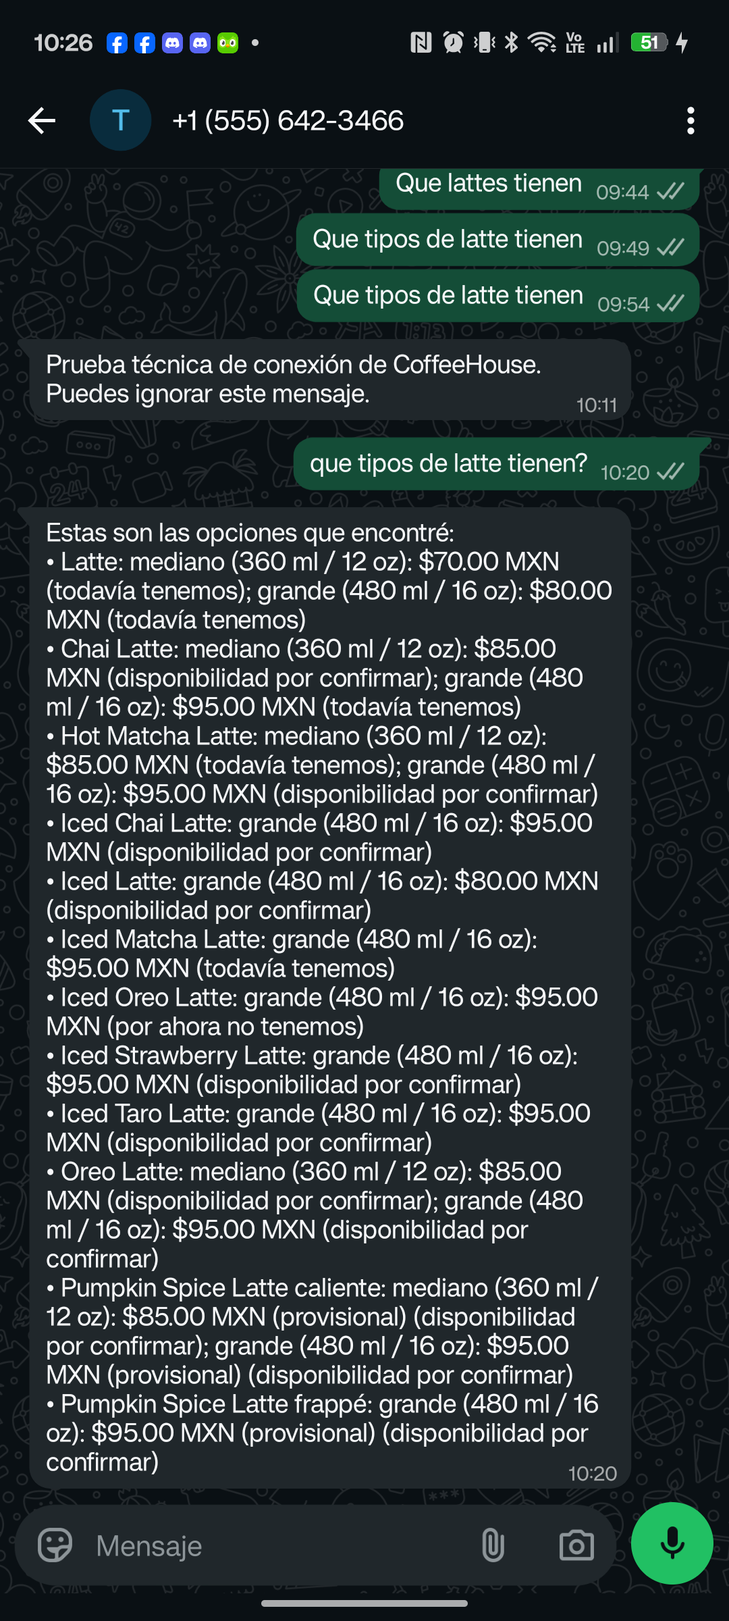
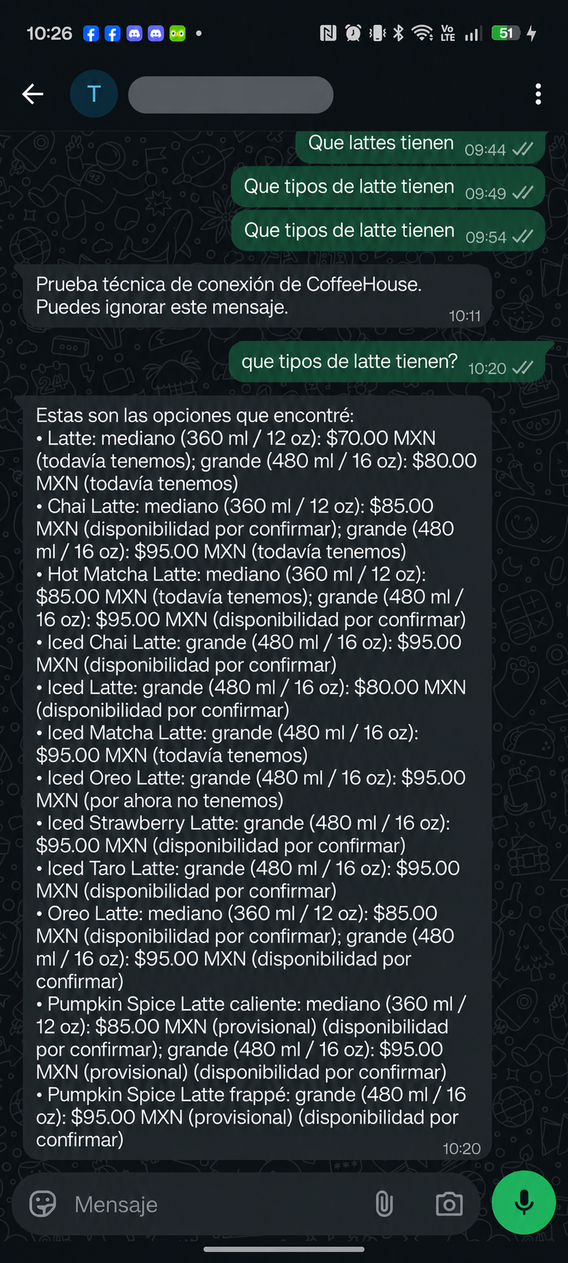
Document WhatsApp order expiry test

diff --git a/evaluation/t10/live-integration-2026-10-09.md b/evaluation/t10/live-integration-2026-10-09.md
@@ -29,7 +29,7 @@ Resultado: **5/5 casos pasaron**. La mediana fue 14.122 segundos y el rango, 5.8
 
 ## Qué falta
 
-La lista «A» de Meta ya contiene el teléfono receptor en el formato `52` + número nacional. El webhook entrega móviles mexicanos como `521` + número nacional. Una prueba directa al formato mostrado por Meta fue aceptada y luego reportó los estados `sent`, `delivered` y `read`. H2 normaliza este identificador al recibir el webhook para que la conversación, la autorización del personal y la respuesta utilicen el formato actual `+52`; el cambio ya está desplegado y el webhook público pasó el desafío HTTPS. El 9 de octubre, una consulta desde Android preguntó qué tipos de latte hay; el asistente respondió con las opciones del menú y Meta confirmó `sent`, `delivered` y `read`. La consulta tardó aproximadamente 22 segundos en procesarse. Después se envió un pedido de prueba y se recibió un borrador; falta la confirmación explícita del cliente y el ciclo de personal. No usar clientes ni datos reales.
+La lista «A» de Meta ya contiene el teléfono receptor en el formato `52` + número nacional. El webhook entrega móviles mexicanos como `521` + número nacional. Una prueba directa al formato mostrado por Meta fue aceptada y luego reportó los estados `sent`, `delivered` y `read`. H2 normaliza este identificador al recibir el webhook para que la conversación, la autorización del personal y la respuesta utilicen el formato actual `+52`; el cambio ya está desplegado y el webhook público pasó el desafío HTTPS. El 9 de octubre, una consulta desde Android preguntó qué tipos de latte hay; el asistente respondió con las opciones del menú y Meta confirmó `sent`, `delivered` y `read`. La consulta tardó aproximadamente 22 segundos en procesarse. El cliente confirmó el pedido de prueba **CH-F9B87265** por **$85 MXN**. El administrador recibió el aviso, pero no respondió dentro del plazo de 10 minutos; el pedido expiró y se notificó al cliente. No se descontó inventario. No usar clientes ni datos reales.
 
 OCR está apagado en el VPS. La prueba sintética no cubre reconocimiento de fotos ni acredita el ciclo real de mensajes entrantes y salientes. No es una validación de producción.
 
@@ -37,16 +37,20 @@ OCR está apagado en el VPS. La prueba sintética no cubre reconocimiento de fot
 
 El 9 de octubre se conectó un Android de prueba y se abrió el chat del número de prueba de Meta. La primera consulta llegó al webhook y el trabajo del asistente terminó, pero Meta rechazó la respuesta con HTTP 401; la comprobación privada devolvió error 190/subcódigo 463. El token se renovó después y las consultas Graph confirmaron el recurso telefónico y el permiso `whatsapp_business_messaging`. Dos consultas posteriores llegaron al webhook y se completaron, pero Meta rechazó las respuestas con HTTP 400/código `131030`. No se recibió respuesta del asistente, no se creó ningún pedido ni se afectó el inventario. La lista «A» ya mostraba el destinatario permitido. La revisión privada encontró una diferencia de formato: el webhook dio `521...` y la lista de Meta usa `52...`. Un envío directo de comprobación al formato de la lista fue aceptado con HTTP 200 y sus estados posteriores confirmaron `sent`, `delivered` y `read`. H2 normalizó el identificador al entrar y el cambio se desplegó. No se incluye captura porque la pantalla contiene mensajes previos y elementos ajenos a la evidencia.
 
-**Actualización posterior, 9 de octubre:** se envió desde Android la consulta «¿qué tipos de latte tienen?». El webhook la recibió, el asistente respondió con las opciones del menú y Meta confirmó que la respuesta fue enviada, entregada y leída. El pedido de demostración y su aceptación por personal siguen pendientes.
+**Actualización posterior, 9 de octubre:** se envió desde Android la consulta «¿qué tipos de latte tienen?». El webhook la recibió, el asistente respondió con las opciones del menú y Meta confirmó que la respuesta fue enviada, entregada y leída. El cliente confirmó el pedido de demostración CH-F9B87265; el personal no lo aceptó dentro del plazo, por lo que expiró. El mensaje de expiración se entregó y no hubo movimiento de inventario.
 
-## Pedido de prueba: borrador pendiente
+## Pedido de prueba: expiró sin aceptación del personal
 
-El 9 de octubre, el teléfono de prueba envió: «Quiero un latte caliente mediano con leche de avena». El agente respondió con un resumen de 1 Latte mediano, extra Leche de Avena y total de **$85.00 MXN**. La propuesta quedó en la conversación como un borrador con vencimiento; no se creó un pedido ni hubo movimientos de inventario. La consulta y la respuesta quedaron registradas como completadas, y Meta marcó la respuesta como leída.
+El 9 de octubre, el teléfono de prueba envió: «Quiero un latte caliente mediano con leche de avena». El agente respondió con un resumen de 1 Latte mediano, extra Leche de Avena y total de **$85.00 MXN**. El cliente contestó «Sí»; el sistema creó el pedido **CH-F9B87265** por $85.00 MXN y lo envió al administrador de respaldo.
 
-La base confirmó que el borrador apunta a `hot_latte`, tamaño mediano, cantidad 1 y modificador `leche_avena`; el precio base es $70 y el extra $15. Aunque el borrador identifica la variante caliente, su texto visible no repite la palabra «caliente»; esto se revisará antes de confirmar. La aceptación del cliente, el aviso al personal y el descuento tras aceptación aún no se han probado.
+La base confirmó que el pedido apunta a `hot_latte`, tamaño mediano, cantidad 1 y modificador `leche_avena`; el precio base es $70 y el extra $15. El aviso al administrador quedó leído, pero no llegó respuesta en los 10 minutos disponibles. A las 10:42, el sistema marcó el pedido y su ticket como `expired`, cerró la ronda con resultado `timed_out` y envió al cliente: «Tu pedido CH-F9B87265 no quedó confirmado y no se descontó inventario. Si quieres, puedo ayudarte con otra opción». Meta confirmó que ese aviso se entregó. No hay `accepted_at`, venta ni movimientos de inventario. El texto del resumen visible dice «Latte mediano» y no repite «caliente», aunque la variante guardada es `hot_latte`.
 
-![Captura de WhatsApp con la consulta del pedido y el borrador que espera confirmación.](evidence/whatsapp-order-draft.png)
+![Captura del borrador en WhatsApp, antes de que el cliente lo confirmara.](evidence/whatsapp-order-draft.png)
+
+![Captura de la confirmación del cliente y el aviso de expiración; el folio y los mensajes se conservaron y el contacto está oculto.](evidence/whatsapp-order-expired.png)
 
 La respuesta automática a la consulta anterior sobre el menú también quedó registrada como `read` por Meta:
 
-![Captura de la consulta sobre los lattes y la respuesta del asistente.](evidence/whatsapp-menu-query.png)
+![Captura redactada de la consulta sobre los lattes y la respuesta del asistente; el contacto está oculto.](evidence/whatsapp-menu-query.png)
+
+Para cerrar el ciclo de aceptación y existencias, hace falta iniciar un pedido de prueba nuevo y que el personal autorizado lo acepte antes de su vencimiento. Entonces se debe comprobar que se registre una sola venta y un solo movimiento de inventario.

diff --git a/deployment/README.md b/deployment/README.md
@@ -6,7 +6,7 @@ El 9 de octubre de 2026 se instaló y habilitó `coffee-house-hackathon2.service
 
 Qwen3Guard está ejecutándose en la torre Debian 13 como servicio persistente del usuario del sistema. La inferencia escucha solo en `127.0.0.1:18473`; el túnel SSH inverso lo publica únicamente en el loopback del VPS, `127.0.0.1:19091`. En el VPS se creó un usuario de túnel sin shell, con una clave dedicada, `AllowTcpForwarding remote`, `PermitListen 127.0.0.1:19091`, `GatewayPorts no` y cero sesiones. La configuración pasó `sshd -t` y la comprobación efectiva; el túnel de Hackathon 1 conserva su puerto y sus restricciones. Los archivos `*-user.service` son las plantillas correspondientes al servicio activo de la torre; las plantillas de sistema muestran una alternativa con cuentas dedicadas.
 
-La suite H2+T1 pasó **109 pruebas y omitió 2** (OCR opcional). La evaluación integrada en el VPS con Groq y la guardia real pasó **5/5 recorridos sintéticos**. Meta confirmó la suscripción de Mozart a la cuenta de WhatsApp de prueba y al campo `messages`; la callback devolvió el desafío válido y rechazó el inválido. La comprobación automatizada no envió mensajes reales ni creó pedidos. Después de desplegar la normalización de números mexicanos, una consulta real de prueba desde Android recibió respuesta automática; Meta confirmó el estado `read`. El asistente también preparó un borrador de pedido; sigue esperando confirmación explícita del cliente. Todavía falta comprobar el aviso y la aceptación del personal.
+La suite H2+T1 pasó **109 pruebas y omitió 2** (OCR opcional). La evaluación integrada en el VPS con Groq y la guardia real pasó **5/5 recorridos sintéticos**. Meta confirmó la suscripción de Mozart a la cuenta de WhatsApp de prueba y al campo `messages`; la callback devolvió el desafío válido y rechazó el inválido. La comprobación automatizada no envió mensajes reales ni creó pedidos. Después de desplegar la normalización de números mexicanos, una consulta real de prueba desde Android recibió respuesta automática; Meta confirmó el estado `read`. El cliente confirmó el pedido **CH-F9B87265** por **$85 MXN**. El administrador de respaldo recibió el aviso, pero no respondió dentro del plazo de 10 minutos. El pedido expiró, el cliente recibió aviso y no hubo venta ni movimiento de inventario. Falta repetir el recorrido para validar la aceptación del personal y el descuento único.
 
 ## Servicio Linux
 
@@ -16,14 +16,14 @@ Prepara `/etc/coffee-house-hackathon2/hackathon2.env` con permisos `600`; toma c
 
 El servicio H2 usa `QWEN_GUARD_URL=http://127.0.0.1:19091`. El túnel se inicia desde la torre hacia el VPS y permite solo el tramo `127.0.0.1:18473` a `127.0.0.1:19091`. No abras la torre en el router ni en el cortafuegos público.
 
-La cuenta de prueba de WhatsApp Business está suscrita a la app Mozart y al campo `messages`. Meta usa la callback H2 indicada arriba. Nunca apuntes la app a la página H1. El primer intento salió con un token vencido (HTTP 401, error 190/463). Después se instaló y verificó un token nuevo con permiso `whatsapp_business_messaging`. Los primeros envíos recibieron HTTP 400/código `131030`, aunque el teléfono ya aparecía en «A». El webhook entregaba el identificador mexicano histórico `521...`, mientras la lista de Meta muestra `52...`. Un envío directo al formato mostrado por Meta fue aceptado y su webhook confirmó `delivered` y `read`. El código de H2 normaliza ese identificador al recibirlo y está desplegado. La conversación automática quedó validada con una consulta sobre los lattes, cuya respuesta Meta marcó como leída. El asistente preparó un borrador de pedido por $85 MXN; no se creó una venta ni cambió el inventario. Falta confirmar el borrador y comprobar la aceptación del personal.
+La cuenta de prueba de WhatsApp Business está suscrita a la app Mozart y al campo `messages`. Meta usa la callback H2 indicada arriba. Nunca apuntes la app a la página H1. El primer intento salió con un token vencido (HTTP 401, error 190/463). Después se instaló y verificó un token nuevo con permiso `whatsapp_business_messaging`. Los primeros envíos recibieron HTTP 400/código `131030`, aunque el teléfono ya aparecía en «A». El webhook entregaba el identificador mexicano histórico `521...`, mientras la lista de Meta muestra `52...`. Un envío directo al formato mostrado por Meta fue aceptado y su webhook confirmó `delivered` y `read`. El código de H2 normaliza ese identificador al recibirlo y está desplegado. La consulta sobre los lattes recibió respuesta y el cliente confirmó el pedido **CH-F9B87265** por **$85 MXN**. El aviso al administrador de respaldo fue leído, pero no llegó respuesta antes del límite de 10 minutos. El pedido expiró y el sistema notificó al cliente; no se aceptó, no se registró una venta y no cambió el inventario.
 
 ## Estado y siguiente paso
 
 1. Confirma que el servicio H2, la guardia y el túnel están activos antes de probar; consulta el registro de despliegue.
 2. En **WhatsApp > Configuración de la API**, comprueba que el teléfono desde el que se escribe aparece como destinatario permitido en «A» para el mismo número de prueba que usa H2. No hace falta añadirlo como línea de negocio, volver a generar el token ni cambiar el webhook.
 3. La consulta sencilla y su respuesta automática ya quedaron comprobadas desde Android; Meta confirmó lectura.
-4. Revisa y confirma el borrador pendiente solo si sus artículos, extras y total son correctos. Después, comprueba el aviso y la aceptación del personal; el inventario solo debe descontarse al aceptar.
+4. El pedido de prueba **CH-F9B87265** expiró por falta de respuesta del administrador dentro de los 10 minutos. Para completar el recorrido, inicia un pedido de prueba nuevo y haz que personal autorizado lo acepte dentro del plazo; verifica que la venta y el movimiento de inventario ocurran una sola vez.
 5. El OCR está apagado en el despliegue actual; las fotos de tickets solo se evaluaron con datos sintéticos y no se deben enviar a esta demo hasta activar y comprobar esa función.
 6. Usa solo números y datos de prueba. No uses información de clientes reales.
 7. Antes de migraciones, respalda solo los datos H2. No abras, copies ni modifiques la base de Hackathon 1.

diff --git a/README.md b/README.md
@@ -18,7 +18,7 @@ Agente de WhatsApp para una cafetería: atiende consultas del menú, arma pedido
 
 Los datos de existencias, recetas, ventas, tickets y números de prueba son sintéticos. Los precios marcados como provisionales son solo para la demostración. El sistema no representa un punto de venta ni un inventario de producción.
 
-La demo está desplegada en el VPS tras una ruta HTTPS propia, distinta de Hackathon 1. La app de prueba de Meta «Mozart» está suscrita al campo `messages`; el desafío del webhook y el rechazo de un token incorrecto se comprobaron. Qwen3Guard corre en la torre y se comunica con H2 mediante un túnel SSH restringido que solo escucha en loopback. Groq y la entrega de WhatsApp están habilitados únicamente para esta configuración de prueba; OCR está apagado. El webhook recibió consultas y el asistente las procesó. Se comprobó que Meta acepta el destinatario de prueba en el formato mostrado por la interfaz (`52` seguido del número nacional, sin el `1` histórico), y la prueba directa se entregó y fue leída. Los eventos entrantes mexicanos pueden traer ese mismo celular como `wa_id` con el `1` histórico (`521`); H2 ya normaliza este identificador a `+52` antes de asociarlo con conversaciones, personal y respuestas. La consulta «¿qué tipos de latte tienen?» recibió una respuesta automática, marcada por Meta como enviada, entregada y leída. También se creó un borrador real de prueba para un Latte mediano caliente con leche de avena por $85 MXN; está pendiente la confirmación explícita del cliente y la aceptación del personal. La demo no está habilitada para atender clientes reales.
+La demo está desplegada en el VPS tras una ruta HTTPS propia, distinta de Hackathon 1. La app de prueba de Meta «Mozart» está suscrita al campo `messages`; el desafío del webhook y el rechazo de un token incorrecto se comprobaron. Qwen3Guard corre en la torre y se comunica con H2 mediante un túnel SSH restringido que solo escucha en loopback. Groq y la entrega de WhatsApp están habilitados únicamente para esta configuración de prueba; OCR está apagado. H2 normaliza los identificadores mexicanos `521...` a `+52`. La consulta de menú recibió una respuesta marcada como enviada, entregada y leída. El cliente confirmó el pedido de prueba **CH-F9B87265** por **$85 MXN**. El administrador de respaldo recibió el aviso, pero no respondió dentro de los 10 minutos: el pedido expiró, el cliente recibió aviso y no se descontó inventario. La demo no está habilitada para atender clientes reales.
 
 Hackathon 2 es independiente de la aplicación y los datos de Hackathon 1. No incluye su interfaz web, historial privado, documentos SDD, modelos descargados ni credenciales.
 
@@ -52,7 +52,7 @@ Desde la raíz del repositorio:
 
 En esta copia de Hackathon 2, la suite H2+T1 pasó **109 pruebas y omitió 2** en Python 3.13 local; las dos omitidas requieren el ejecutable OCR, cubierto en una evaluación sintética independiente. La batería conversacional integrada volvió a pasar **5/5 casos** con Groq y Qwen3Guard reales, incluida una consulta clara de latte caliente con leche de avena. Incluye una aclaración cuando el cliente omite si una bebida es caliente o fría, y verifica que la preferencia de una bebida no se aplique por error a otra dentro del mismo pedido. Las consultas y la base de esa evaluación fueron sintéticas; no hubo mensajes de WhatsApp ni llamadas de Graph API durante la batería. H2 y la guardia están activos en el VPS y la torre, y H1 siguió respondiendo HTTP 200. Los resultados de antes y después del ajuste están en `evaluation/t5/`.
 
-La primera prueba manual desde Android falló porque el token anterior ya no era válido (HTTP 401, error 190/463). Se instaló un token nuevo en el entorno privado del VPS; las consultas Graph de solo lectura confirmaron el número configurado y el permiso `whatsapp_business_messaging`. En pruebas posteriores se encontró una diferencia entre el identificador mexicano `521...` recibido por webhook y el destinatario `52...` que aparece permitido en la configuración de Meta. Un envío directo de comprobación al formato permitido fue aceptado por Graph (HTTP 200); no se volvió a añadir el número ni se cambió la cuenta WABA. Se añadió normalización del identificador entrante, cubierta por pruebas, pero falta desplegarla y completar la prueba conversacional desde Android. Tampoco se ha probado aún un pedido real por WhatsApp. El detalle está en `evaluation/t10/live-integration-2026-10-09.md`.
+La primera prueba manual desde Android falló porque el token anterior ya no era válido (HTTP 401, error 190/463). Se instaló un token nuevo en el entorno privado del VPS; las consultas Graph de solo lectura confirmaron el número configurado y el permiso `whatsapp_business_messaging`. En pruebas posteriores se encontró una diferencia entre el identificador mexicano `521...` recibido por webhook y el destinatario `52...` que aparece permitido en la configuración de Meta. Un envío directo de comprobación al formato permitido fue aceptado por Graph (HTTP 200); no se volvió a añadir el número ni se cambió la cuenta WABA. Se añadió y desplegó la normalización del identificador entrante, cubierta por pruebas. Desde Android quedó comprobada la respuesta del menú; en el pedido más reciente, el cliente confirmó y recibió folio, pero el personal no respondió en diez minutos. El pedido expiró y no afectó las existencias. El detalle está en `evaluation/t10/live-integration-2026-10-09.md`.
 
 La primera batería coloquial tuvo 20/21 por una expectativa mal etiquetada en el evaluador. La batería corregida completa pasó **22/22 intenciones claras y 5/5 ambiguas** en una sola corrida, con cero reintentos y cero fallos; incluye una frase con varias erratas. El ejecutor espera 15 segundos entre consultas para respetar la cuota observada. La explicación, las limitaciones y los resultados están en `evaluation/t9/groq-colloquial-report-2026-10-09.md`; son frases sintéticas, no una garantía de comprensión general.
 

diff --git a/docs/entrega-hackathon2.md b/docs/entrega-hackathon2.md
@@ -27,14 +27,16 @@ Las acciones de negocio no dependen de una respuesta libre del modelo. Los permi
 
 ## Evaluación
 
-La suite H2+T1 pasó **109 pruebas y omitió 2** (las omitidas requieren Tesseract). La limpieza automática, la cola, las cancelaciones y los estados se comprobaron con datos de demostración. H2 está desplegado en una ruta exclusiva del VPS; la app de prueba Mozart está suscrita al campo `messages`, y el desafío del webhook HTTPS se verificó. Qwen3Guard corre en la torre y se comunica con el VPS por un túnel SSH restringido a loopback. La evaluación integrada más reciente pasó **5/5 recorridos sintéticos** con Groq y Qwen3Guard. Se validó desde Android una consulta sobre los lattes y Meta confirmó que la respuesta fue enviada, entregada y leída. También se preparó un borrador para un Latte mediano caliente con leche de avena por **$85 MXN**. La base confirma la variante caliente; todavía no se ha confirmado el pedido, creado una venta ni descontado inventario. La aceptación del personal sigue pendiente. H2 normaliza el identificador mexicano histórico `521...` a `+52`. Los detalles y la captura de la prueba están en `evaluation/t10/live-integration-2026-10-09.md`.
+La suite H2+T1 pasó **109 pruebas y omitió 2** (las omitidas requieren Tesseract). La limpieza automática, la cola, las cancelaciones y los estados se comprobaron con datos de demostración. H2 está desplegado en una ruta exclusiva del VPS; la app de prueba Mozart está suscrita al campo `messages`, y el desafío del webhook HTTPS se verificó. Qwen3Guard corre en la torre y se comunica con el VPS por un túnel SSH restringido a loopback. La evaluación integrada más reciente pasó **5/5 recorridos sintéticos** con Groq y Qwen3Guard. Desde Android se validó la consulta del menú y el cliente confirmó el pedido **CH-F9B87265** por **$85 MXN**. El aviso al administrador de respaldo fue leído, pero no llegó aceptación antes del límite de 10 minutos. El pedido expiró; el cliente recibió aviso y no hubo venta ni descuento de inventario. H2 normaliza el identificador mexicano histórico `521...` a `+52`. Los detalles y las capturas de la prueba están en `evaluation/t10/live-integration-2026-10-09.md`.
 
-![Consulta del menú de latte respondida por el asistente en WhatsApp.](../evaluation/t10/evidence/whatsapp-menu-query.png)
+![Captura redactada de la consulta del menú de latte respondida por el asistente en WhatsApp; el contacto está oculto.](../evaluation/t10/evidence/whatsapp-menu-query.png)
 
-![Borrador del pedido de prueba en WhatsApp. No se confirmó ni se envió al personal.](../evaluation/t10/evidence/whatsapp-order-draft.png)
+![Captura redactada del resumen del pedido antes de la confirmación del cliente; el contacto está oculto.](../evaluation/t10/evidence/whatsapp-order-draft.png)
+
+![Confirmación del cliente y aviso de expiración. El pedido venció sin aceptación y no se descontó inventario. Captura con el contacto oculto.](../evaluation/t10/evidence/whatsapp-order-expired.png)
 
 ## Alcance y limitaciones
 
-Las recetas, existencias, pedidos, tickets y números incluidos son ficticios. Algunos precios se señalan como provisionales. La app y el teléfono configurados en Meta son de prueba. La suscripción de Mozart al campo `messages` y la dirección de devolución de Hackathon 2 se verificaron. Desde Android se comprobó una consulta, la respuesta automática y su lectura; el teléfono de prueba está autorizado. Se generó un borrador de pedido; su confirmación y el aviso y aceptación del personal siguen pendientes. En la demo actual el texto externo y la entrega por WhatsApp están habilitados solo con la configuración de prueba; el OCR está apagado y los datos son ficticios. La prueba automatizada no acredita operación de producción.
+Las recetas, existencias, pedidos, tickets y números incluidos son ficticios. Algunos precios se señalan como provisionales. La app y el teléfono configurados en Meta son de prueba. La suscripción de Mozart al campo `messages` y la dirección de devolución de Hackathon 2 se verificaron. Desde Android se comprobó una consulta, la respuesta automática y su lectura; el teléfono de prueba está autorizado. En una prueba posterior, el cliente confirmó un pedido de demostración y el administrador de respaldo recibió el aviso, pero no respondió en 10 minutos. El pedido expiró, el cliente fue notificado y no se registró una venta ni se descontaron existencias. El ciclo de aceptación del personal y el descuento aún deben probarse. En la demo actual el texto externo y la entrega por WhatsApp están habilitados solo con la configuración de prueba; el OCR está apagado y los datos son ficticios. La prueba automatizada no acredita operación de producción.
 
 El resultado es un prototipo académico funcional a nivel de código y pruebas locales, diseñado para la demostración del Hackathon 2. No es un sistema de venta listo para atender clientes reales.

diff --git a/evaluation/t9/whatsapp-smoke-test.md b/evaluation/t9/whatsapp-smoke-test.md
@@ -38,4 +38,4 @@ Este guion permite cerrar la validación externa después de renovar y verificar
 
 El 9 de octubre de 2026, la primera consulta desde Android llegó al webhook y fue procesada, pero el envío salió con HTTP 401; una lectura privada devolvió error Graph API 190/463. Ese token se renovó y el nuevo pasó las consultas Graph de solo lectura con permiso `whatsapp_business_messaging`. Las consultas siguientes volvieron a llegar al webhook y a completarse; la bandeja de salida registró `meta_http_400_graph_131030`. La interfaz de Meta ya mostraba el teléfono receptor en «A». La revisión privada mostró que el webhook entregó el identificador mexicano con formato `521...`, mientras la interfaz usa el número actual `52...` sin el `1` histórico. Un envío directo de comprobación al formato de «A» fue aceptado y sus estados posteriores confirmaron entrega y lectura. H2 ya normaliza el identificador mexicano entrante a `+52`; el cambio está desplegado y la batería cubre este comportamiento. La consulta-respuesta real desde Android quedó validada; todavía no se ha probado un pedido ni cambiado inventario.
 
-El destinatario de prueba ya estaba autorizado y la consulta sencilla recibió una respuesta automática, confirmada por Meta como leída. También se generó el borrador de un Latte mediano caliente con leche de avena por $85 MXN. No se confirmó, no se creó una venta y no hubo movimientos de inventario. Falta confirmar el resumen y completar el ciclo controlado de aviso y aceptación del personal. No hace falta regenerar el token ni cambiar el webhook. No copiar credenciales al repositorio o al chat.
+El destinatario de prueba ya estaba autorizado y la consulta sencilla recibió una respuesta automática, confirmada por Meta como leída. El cliente confirmó el pedido **CH-F9B87265**: Latte mediano caliente con leche de avena, $85 MXN. El administrador de respaldo recibió y leyó el aviso, pero no respondió dentro de los 10 minutos. El pedido expiró, el cliente recibió una notificación entregada y no hubo venta ni movimientos de inventario. Para probar la aceptación y el descuento único, inicia una solicitud de prueba nueva y responde como personal autorizado antes de que venza. No hace falta regenerar el token ni cambiar el webhook. No copiar credenciales al repositorio o al chat.
